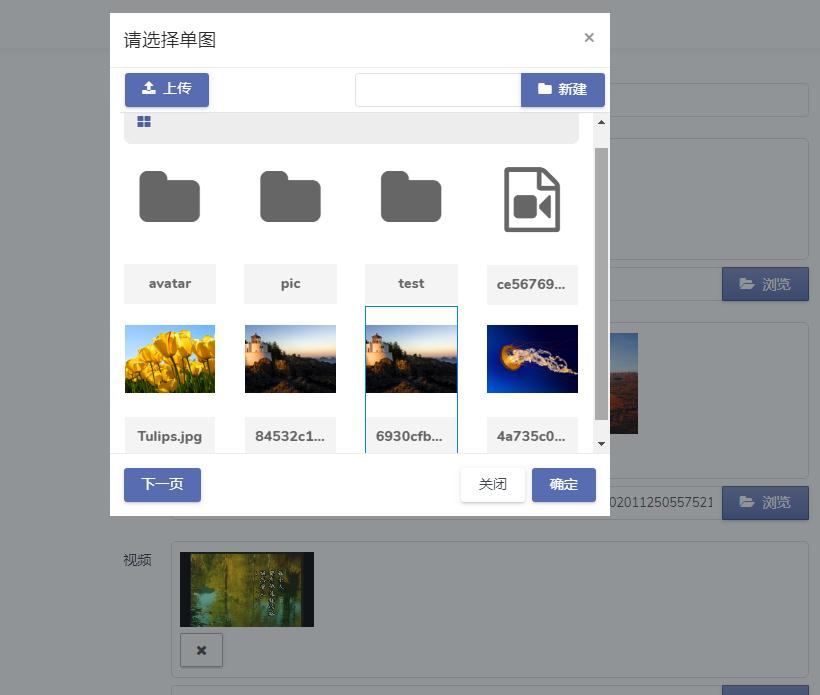
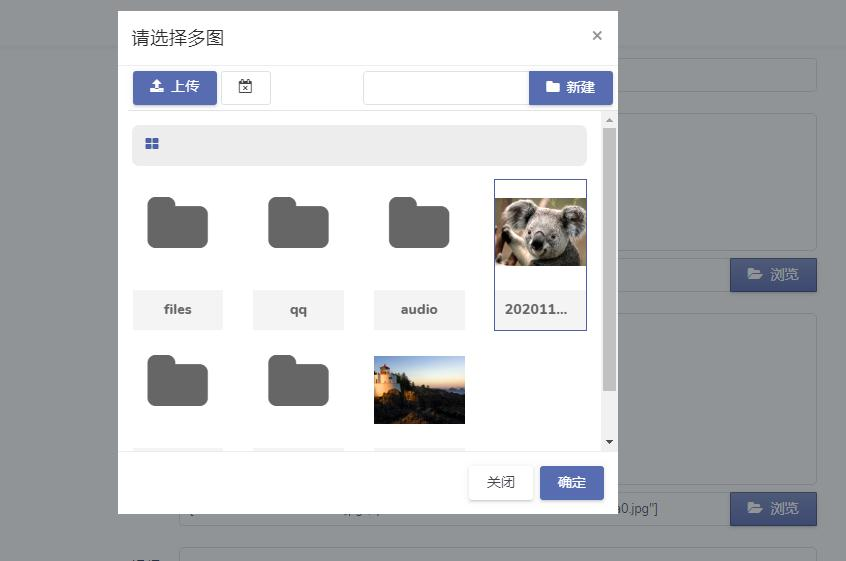
添加排序按钮

diff --git a/resources/assets/field.js b/resources/assets/field.js
@@ -96,6 +96,34 @@ $(function () {
                 thiz.getdata(name, path, options);
             })
             
+            // 点击排序切换
+            $('body').on('click', ".lake-form-media-modal-order", function() {
+                var order = $(this).data('order');
+                
+                if (order == 'name') {
+                    $(this).data('order', 'time');
+                    
+                    $(this).find('.fa')
+                        .removeClass('fa-sort-alpha-asc')
+                        .addClass('fa-calendar-times-o');
+                } else {
+                    $(this).data('order', 'name');
+                    
+                    $(this).find('.fa')
+                        .removeClass('fa-calendar-times-o')
+                        .addClass('fa-sort-alpha-asc');
+                }
+                
+                var mediaCont = $(this).parents('.lake-form-media');
+                var mediaModalCont = mediaCont.find('.lake-form-media-modal');
+                var mediaModalNavOlCont = mediaModalCont.find('.lake-form-media-nav-ol');
+                var name = mediaCont.data('name');
+                var path = mediaModalNavOlCont.data('current-path');
+                var options = mediaCont.data('options');
+                
+                thiz.getdata(name, path, options)
+            });
+            
             // 点击文件夹
             $('body').on('click', ".lake-form-media-dir-op", function() {
                 var mediaCont = $(this).parents('.lake-form-media');
@@ -443,6 +471,7 @@ $(function () {
         getdata: function(name, path = '/', options = []) {
             var mediaCont = $('.lake-form-media-' + name);
             
+            var type = options.type;
             var limit = options.limit;
             var remove = options.remove;
             var rootpath = options.rootpath;
@@ -452,9 +481,11 @@ $(function () {
             var mediaModalTableCont = mediaModalCont.find('.lake-form-media-body-table');
             var mediaModalNavOlCont = mediaModalCont.find('.lake-form-media-nav-ol');
             var mediaModalPageCont = mediaModalCont.find('.lake-form-media-modal-page');
+            var mediaModalOrderCont = mediaModalCont.find('.lake-form-media-modal-order');
             
             var inputCont = mediaCont.find('.lake-form-media-input');
             
+            var order = mediaModalOrderCont.data('order');
             var currentPath = mediaModalNavOlCont.data('current-path');
             var currentPage = mediaModalPageCont.data('current-page');
             var pageSize = mediaModalPageCont.data('page-size');
@@ -464,6 +495,8 @@ $(function () {
             $.ajax({
                 url: options.get_files_url 
                     + "?path="+path
+                    + "&type="+type
+                    + "&order="+order
                     + "&page="+currentPage
                     + "&pageSize="+pageSize,
                 method: 'GET',

diff --git a/resources/views/field.blade.php b/resources/views/field.blade.php
@@ -12,6 +12,7 @@
         </div>
 
         @include('admin::form.error')
+        
         <div class="input-group">
             
             <input type="text" 
@@ -33,6 +34,7 @@
             </div>
 
         </div><!-- /input-group -->
+        
         @include('admin::form.help-block')
     </div>
     
@@ -42,7 +44,9 @@
             <div class="modal-content"  style="width: 100%">
               <div class="modal-header">
                 <h4 class="modal-title" id="LakeFormMediaModalLabel">选择图片</h4>
-                <button type="button" class="close" data-dismiss="modal" aria-label="Close">
+                <button type="button" class="close" 
+                    data-dismiss="modal" 
+                    aria-label="Close">
                     <span aria-hidden="true">&times;</span>
                 </button>
               </div>
@@ -51,7 +55,13 @@
                         <i class="fa fa-upload"></i>&nbsp;&nbsp;上传
                         <input type="file"  class="hidden file-upload lake-form-media-upload" multiple="" />
                     </label>
-
+                    
+                    <label class="btn btn-light lake-form-media-modal-order" 
+                        data-order="time"
+                        title="点击切换排序">
+                        <i class="fa fa-calendar-times-o"></i>
+                    </label>
+                    
                     <div class="input-group pull-right lake-form-media-create-folder-label" style="width: 250px;">
                         <input type="text" class="form-control lake-form-media-dir-input" value="">
                         <div class="input-group-btn input-group-append">

diff --git a/src/MediaManager.php b/src/MediaManager.php
@@ -69,18 +69,38 @@ class MediaManager
         return $this;
     }
 
-    public function ls()
+    public function ls($type = 'image', $order = 'time')
     {
         $files = $this->storage->files($this->path);
-
+        
         $directories = $this->storage->directories($this->path);
-
-        return $this->formatDirectories($directories)
-            ->merge($this->formatFiles($files))
-            ->sortByDesc(function ($item) {
-                return $item['time'];
+        
+        $manager = $this;
+        $files = $this->formatFiles($files)
+            ->map(function($item) use($type, $manager) {
+                $fileType = $manager->detectFileType($item['name']);
+                if ($type == $fileType) {
+                    return $item;
+                }
             })
-            ->all();
+            ->filter(function($item) {
+                return ! empty($item);
+            });
+        
+        $list = $this->formatDirectories($directories)
+            ->merge($files);
+        
+        if ($order == 'name') {
+            $list = $list->sort(function ($item) {
+                    return $item['name'];
+                });
+        } else {
+            $list = $list->sortByDesc(function ($item) {
+                    return $item['time'];
+                });
+        }
+            
+        return $list->all();
     }
 
     /**

diff --git a/src/Http/Controllers/FormMedia.php b/src/Http/Controllers/FormMedia.php
@@ -20,8 +20,11 @@ class FormMedia extends Controller
         
         $manager = (new MediaManager())
             ->setPath($path);
+            
+        $type = (string) request()->input('type', 'image');
+        $order = (string) request()->input('order', 'time');
         
-        $files = $manager->ls();
+        $files = $manager->ls($type, $order);
         $list = collect($files)
             ->slice(($currentPage - 1) * $perPage, $perPage)
             ->values();

diff --git a/version.php b/version.php
@@ -1,13 +1,13 @@
 <?php
 
 return [
-    '1.0.6' => [
-        '修复多图选中设置多余问题。修复拖动提交后无效问题。',
-    ],
     '1.0.7' => [
         '修复多图最大选中判断错误问题。',
     ],
     '1.0.8' => [
         '修复链接图片视频不能预览问题。',
+    ],
+    '1.0.9' => [
+        '添加列表排序按钮。列表媒体根据类型显示相应数据。',
     ],
 ];

diff --git a/README.md b/README.md
@@ -10,7 +10,7 @@
 ![form-array](https://user-images.githubusercontent.com/24578855/100456207-f24caa80-30fa-11eb-86a3-a8e3d2102655.jpg)
 
 ### 弹出选择框
-![form-modal](https://user-images.githubusercontent.com/24578855/100266422-c14e6780-2f8c-11eb-8a14-c8c1855eedb6.jpg)
+![form-modal](https://user-images.githubusercontent.com/24578855/104125985-1277b680-5395-11eb-835b-c20e7c7585f9.jpg)
 
 
 ## 环境
